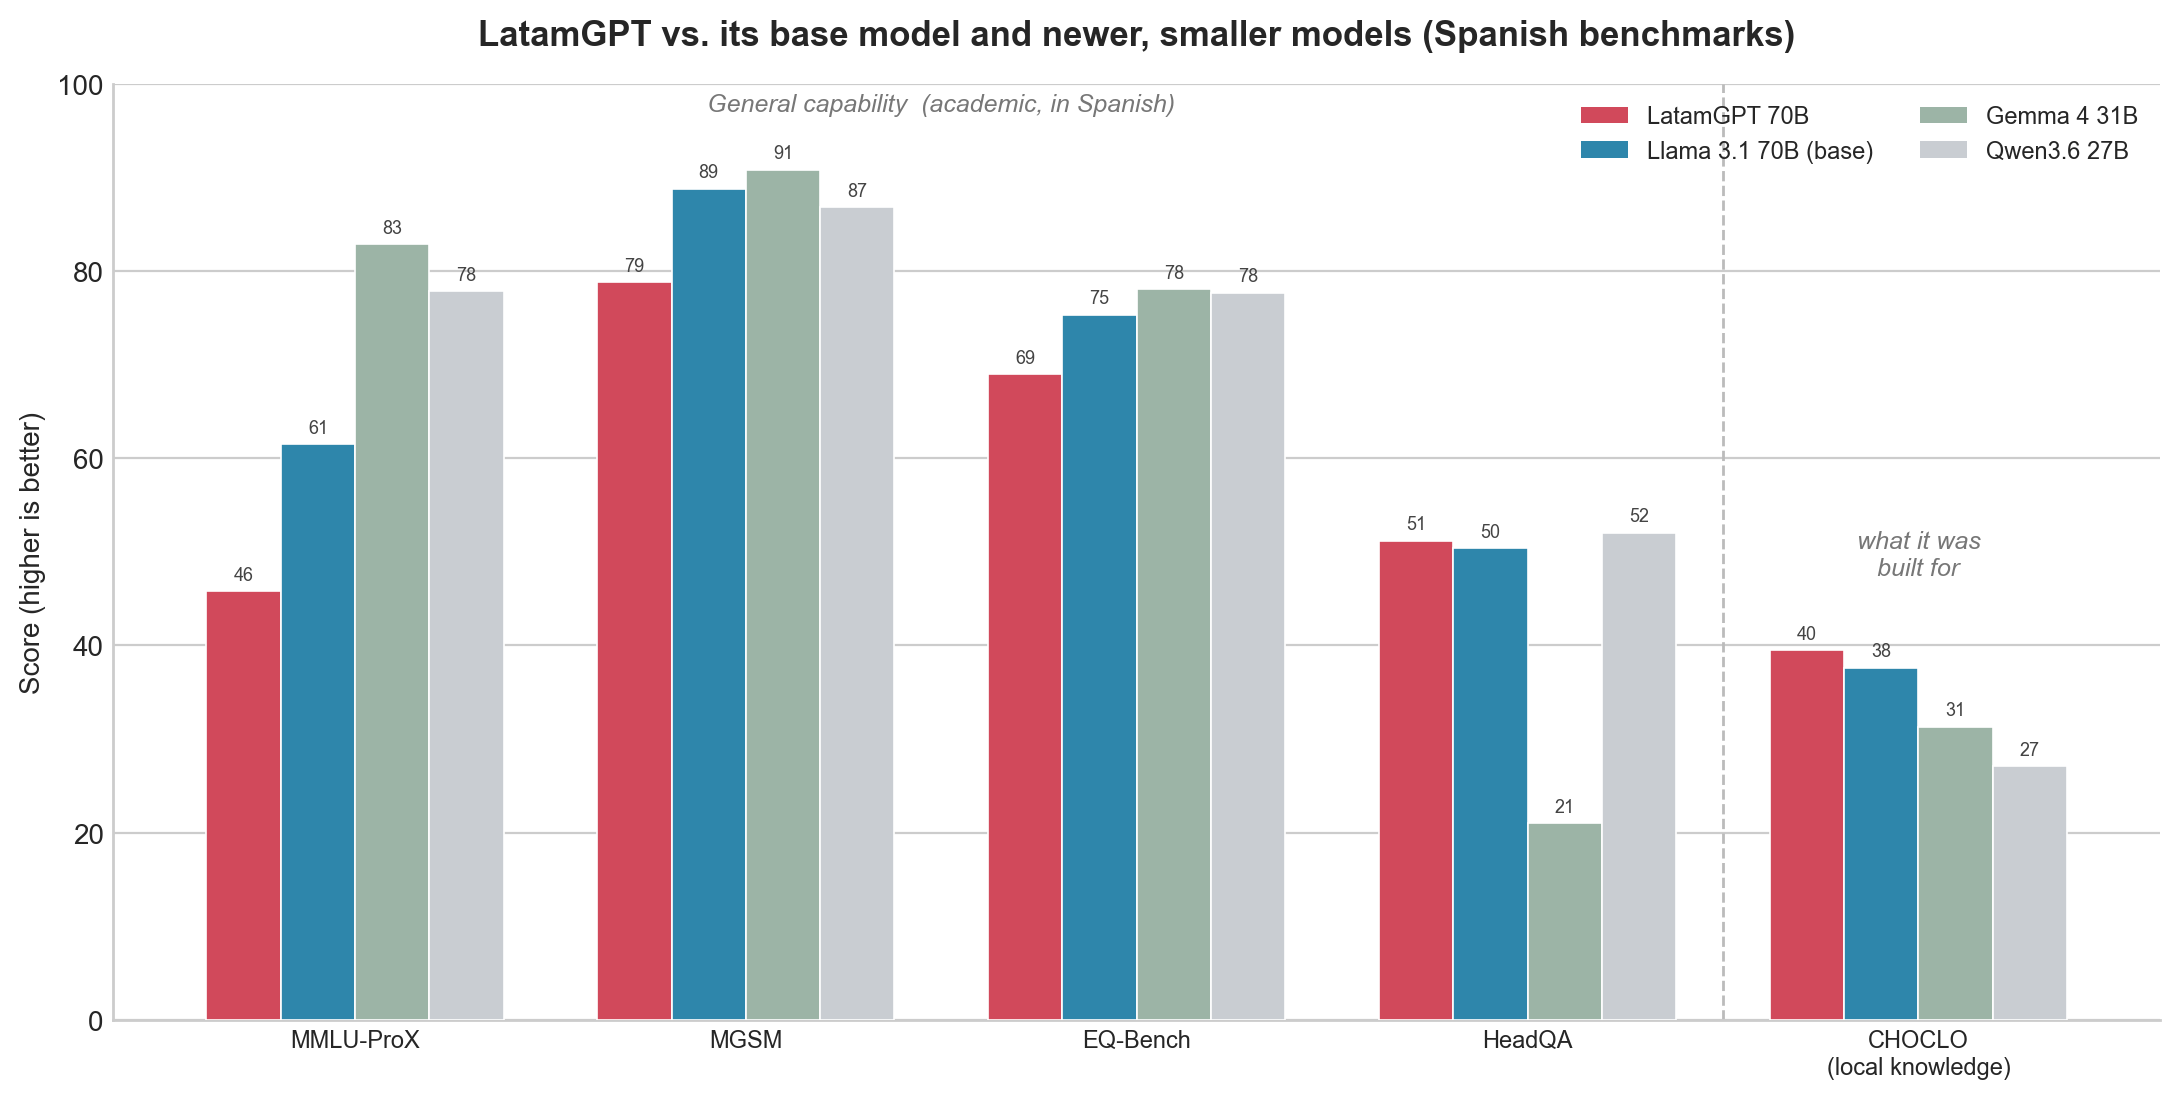
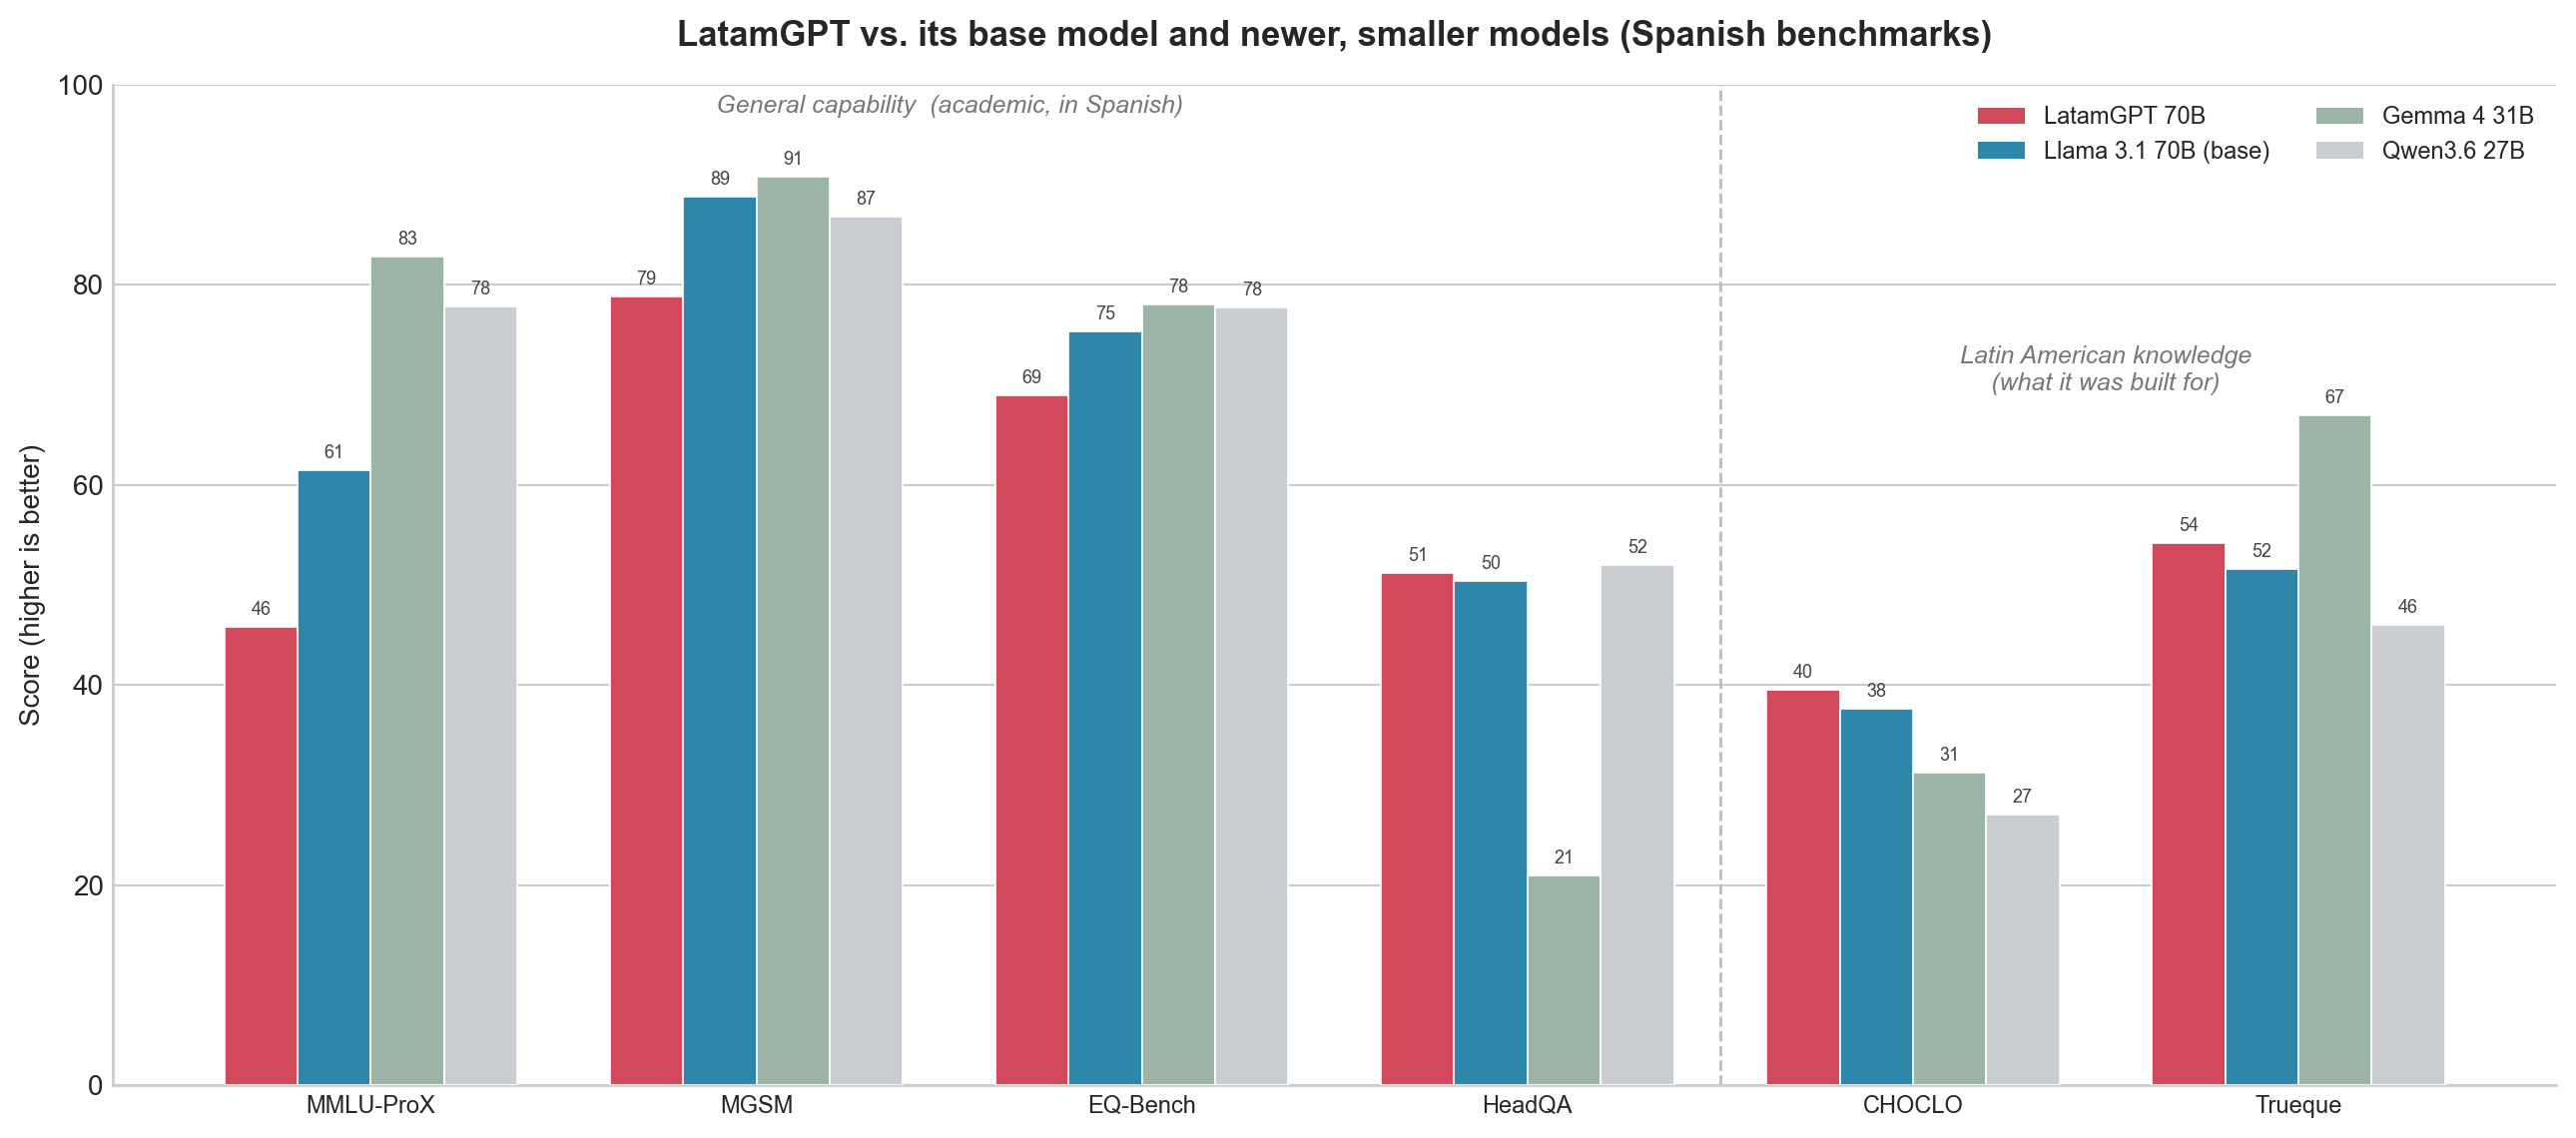
Add Trueque results and refine LatamGPT post
- Add Trueque benchmark (chart + overall comparison table), with honest
  framing: Gemma wins Trueque while LatamGPT tops CHOCLO
- Rename "local knowledge" -> "Latin American knowledge"; update title
- Add disclaimers: single run (except Gemma HeadQA x3), Spanish prompts,
  judge may not reproduce authors' methodology, Gemma/Qwen run без thinking
- Point CHOCLO/Trueque references to CENIA announcement + dataset repos

diff --git a/_posts/2026-06-08-blog-3-latamgpt-continued-pretraining.md b/_posts/2026-06-08-blog-3-latamgpt-continued-pretraining.md
@@ -1,5 +1,5 @@
 ---
-title: 'Local Knowledge at a Price: Reading LatamGPT Through Its Benchmarks'
+title: 'Latin American Knowledge at a Price: Reading LatamGPT Through Its Benchmarks'
 date: 2026-06-08
 permalink: /posts/2026/blog-latamgpt-continued-pretraining/
 tags:
@@ -32,7 +32,7 @@ The numbers show the tax plainly. On general academic benchmarks <em>in Spanish<
 <p align="center">
     <img src="/images/latamgpt-benchmarks.png" width="760">
 	<center>
-	<figcaption>On the academic benchmarks (left), LatamGPT (red) trails its own base, Llama 3.1 70B (blue), and the two newer, smaller models lead both—except on HeadQA, where it edges its base (and Gemma's score looks like an evaluation artifact). On CHOCLO (right), the benchmark it was built for, the picture flips.</figcaption>
+	<figcaption>On the academic benchmarks (left), LatamGPT (red) trails its own base, Llama 3.1 70B (blue), and the two newer, smaller models lead both—except on HeadQA, where it edges its base (and Gemma's score looks like an evaluation artifact). On the Latin American knowledge benchmarks (right), it beats its base on both CHOCLO and Trueque and tops CHOCLO outright—though Gemma still wins the smaller, human-reviewed Trueque.</figcaption>
 	</center>
 </p>
 
@@ -51,27 +51,44 @@ The exact numbers behind the left side of that chart:
 EM = exact match, Acc = accuracy; EQ-Bench uses its own 0–100 scale. Bold marks the best score per row. LatamGPT lands below its Llama 3.1 base on every row except HeadQA—and well behind the two newer, smaller models (Gemma's HeadQA score aside; see the note at the end).
 </p>
 
-## Where it pays off: local knowledge
+## Where it pays off: Latin American knowledge
 
 <p style='text-align: justify;'>
-Now the other side of the ledger. CHOCLO—<a href="https://www.linkedin.com/posts/andres-carvallo-b5836a33a_latam-gptchoclo-datasets-at-hugging-face-share-7449581534673633280-elg4/">another CENIA release from the same Latam-GPT effort</a>, openly available <a href="https://huggingface.co/latam-gpt">on Hugging Face</a>—is a 104,847-question benchmark of Latin American cultural knowledge (food, flora and fauna, geography, traditions, public figures) spanning the region's countries. CHOCLO ships a hybrid evaluation (lexical overlap, embedding similarity, and an LLM-as-judge); I report the LLM-as-judge part as a binary call—a single external judge decides, for each answer, whether it is semantically equivalent to the reference, and the score is simply the share judged equivalent. Because the same judge grades all four models, the numbers are directly comparable. Here, LatamGPT is the <strong>best model in the table</strong>: 39.5% of its answers are judged equivalent to the gold reference, edging out its base (37.6) and clearly ahead of the newer models (Gemma 4 31B at 31.3, Qwen3.6 27B at 27.1). And the lead is consistent across difficulty levels:
+Now the other side of the ledger. CHOCLO—<a href="https://www.linkedin.com/posts/te-invitamos-a-nuestro-pr%C3%B3ximo-webinar-donde-ugcPost-7450985197631791105-XLKo/">another CENIA release from the same Latam-GPT effort</a>, openly available <a href="https://huggingface.co/datasets/latam-gpt/CHOCLO">on Hugging Face</a>—is a 104,847-question benchmark of Latin American cultural knowledge (food, flora and fauna, geography, traditions, public figures) spanning the region's countries. CHOCLO ships a hybrid evaluation (lexical overlap, embedding similarity, and an LLM-as-judge); I report the LLM-as-judge part as a binary call—a single external judge decides, for each answer, whether it is semantically equivalent to the reference, and the score is simply the share judged equivalent. Because the same judge grades all four models, the numbers are directly comparable. Here, LatamGPT is the <strong>best model in the table</strong>: 39.5% of its answers are judged equivalent to the gold reference, edging out its base (37.6) and clearly ahead of the newer models (Gemma 4 31B at 31.3, Qwen3.6 27B at 27.1). And the lead is consistent across difficulty levels:
 </p>
 
 | CHOCLO — binary semantic equivalence (%) | LatamGPT 70B   | Llama 3.1 70B | Gemma 4 31B | Qwen3.6 27B |
-| ------------------------------ | -------------- | ------------- | ----------- | ----------- |
-| Overall                        | **39.5** | 37.6          | 31.3        | 27.1        |
-| Fácil (easy)                  | **59.8** | 57.1          | 48.4        | 45.1        |
-| Intermedia (intermediate)      | **33.9** | 32.3          | 24.3        | 20.7        |
-| Difícil (hard)                | **24.9** | 23.6          | 21.3        | 15.6        |
+| ----------------------------------------- | -------------- | ------------- | ----------- | ----------- |
+| Overall                                   | **39.5** | 37.6          | 31.3        | 27.1        |
+| Fácil (easy)                             | **59.8** | 57.1          | 48.4        | 45.1        |
+| Intermedia (intermediate)                 | **33.9** | 32.3          | 24.3        | 20.7        |
+| Difícil (hard)                           | **24.9** | 23.6          | 21.3        | 15.6        |
 
 <p style='text-align: justify;'>
-This is the result that justifies the effort. Local cultural knowledge does not fall out of scale or recency—Gemma and Qwen are newer and strong, and they still lose here, because the relevant facts about a Chilean dish or a Peruvian tradition were simply never in their training data. You cannot reason your way to knowledge you were never shown. The regional corpus put that knowledge in, and CHOCLO can see it. The honest summary of the two tables together: continued pre-training bought a real, measurable gain on exactly the thing it was built for—and paid for it with a broad regression everywhere else.
+This is the result that justifies the effort. Latin American cultural knowledge does not fall out of scale or recency—Gemma and Qwen are newer and strong, and they still lose here, because the relevant facts about a Chilean dish or a Peruvian tradition were simply never in their training data. You cannot reason your way to knowledge you were never shown. The regional corpus put that knowledge in, and CHOCLO can see it.
+</p>
+
+<p style='text-align: justify;'>
+But it does not win <em>every</em> cultural test. <a href="https://huggingface.co/datasets/latam-gpt/Trueque-Benchmark-beta-0.1">Trueque</a>—a smaller, human-reviewed collaborative Latin American QA benchmark (500 questions in this beta, scored the same way: a single external judge making a binary semantic-equivalence call)—tells a more mixed story. LatamGPT again beats its own base (54.2 vs. 51.6) and Qwen (46.0), so the edge the regional corpus gives it over Llama 3.1 holds. But here Gemma 4 31B wins outright, and not by a little: 67.0 to LatamGPT's 54.2. On CHOCLO's long-tail, machine-generated facts the regional data is decisive; on Trueque's broader, human-reviewed questions, a stronger and newer general model pulls ahead despite never being trained on the region.
+</p>
+
+<p style='text-align: justify;'>
+Side by side, the two Latin American benchmarks (overall, same single-judge scoring):
+</p>
+
+| Overall — binary semantic equivalence (%) | LatamGPT 70B   | Llama 3.1 70B | Gemma 4 31B    | Qwen3.6 27B |
+| ------------------------------------------ | -------------- | ------------- | -------------- | ----------- |
+| CHOCLO (n = 104,847)                       | **39.5** | 37.6          | 31.3           | 27.1        |
+| Trueque (n = 500, beta)                    | 54.2           | 51.6          | **67.0** | 46.0        |
+
+<p style='text-align: justify;'>
+The honest summary of all of it: continued pre-training bought a consistent edge over the base model on Latin American knowledge—and an outright win on CHOCLO—but not enough to beat a much stronger, newer model on every cultural benchmark, and it paid for that edge with a broad regression on general ability.
 </p>
 
 ## The uncomfortable comparison
 
 <p style='text-align: justify;'>
-There is a harder fact lurking in the same chart. Gemma 4 31B and Qwen3.6 27B are <em>less than half the size</em> of LatamGPT and roughly two years newer, and they dominate the core academic benchmarks—often by twenty points or more. This is the structural problem with adapting a base model: you inherit its ceiling. CPT on a 2024-era Llama cannot out-run pre-training recipes from 2026, no matter how good your regional data is. And the target keeps moving: in 2026 the open-weight frontier ships a major model every few weeks (<a href="https://huggingface.co/blog/daya-shankar/open-source-llms">one tally counted five frontier-class open-weight LLMs in a single month</a>). By the time you finish adapting last year's base, this year's smaller model has lapped you on everything except the local knowledge you added by hand.
+There is a harder fact lurking in the same chart. Gemma 4 31B and Qwen3.6 27B are <em>less than half the size</em> of LatamGPT and roughly two years newer, and they dominate the core academic benchmarks—often by twenty points or more. This is the structural problem with adapting a base model: you inherit its ceiling. CPT on a 2024-era Llama cannot out-run pre-training recipes from 2026, no matter how good your regional data is. And the target keeps moving: in 2026 the open-weight frontier ships a major model every few weeks (<a href="https://huggingface.co/blog/daya-shankar/open-source-llms">one tally counted five frontier-class open-weight LLMs in a single month</a>). By the time you finish adapting last year's base, this year's smaller model has lapped you on the academic benchmarks—and, as Trueque shows, can even take some of the cultural ones—leaving the long-tail Latin American knowledge of CHOCLO as the clearest thing you actually gained.
 </p>
 
 ## So what is the real contribution?
@@ -81,7 +98,7 @@ This is where I want to be a friendly critic, because I genuinely admire the amb
 </p>
 
 <p style='text-align: justify;'>
-<strong>Does Latin America need to <em>train</em> a model, or to <em>curate</em> data?</strong> A regional foundation model is a multi-million-dollar bet that frontier labs match in a day of compute. High-quality, openly licensed cultural data is cheaper, durable, and—crucially—usable by <em>any</em> model that matters. <strong>What is the data actually contributing?</strong> CHOCLO already shows it: the local knowledge it encodes is the one place LatamGPT wins. That signal is more valuable as a portable resource than as something frozen into one set of weights. <strong>And is the real leverage in deployment rather than pre-training?</strong> The same curated knowledge can be injected through retrieval-augmented generation, in-context examples, or as a callable "cultural competence" skill for agentic systems—often beating brute-force pre-training on cost and freshness, and improving every model instead of just one.
+<strong>Does Latin America need to <em>train</em> a model, or to <em>curate</em> data?</strong> A regional foundation model is a multi-million-dollar bet that frontier labs match in a day of compute. High-quality, openly licensed cultural data is cheaper, durable, and—crucially—usable by <em>any</em> model that matters. <strong>What is the data actually contributing?</strong> CHOCLO already shows it: the Latin American knowledge it encodes is where LatamGPT's edge actually shows. That signal is more valuable as a portable resource than as something frozen into one set of weights. <strong>And is the real leverage in deployment rather than pre-training?</strong> The same curated knowledge can be injected through retrieval-augmented generation, in-context examples, or as a callable "cultural competence" skill for agentic systems—often beating brute-force pre-training on cost and freshness, and improving every model instead of just one.
 </p>
 
 <p style='text-align: justify;'>
@@ -91,14 +108,16 @@ None of this diminishes what LatamGPT accomplished: a large, multi-country colla
 ## A note on the numbers
 
 <p style='text-align: justify;'>
-All numbers come from two open evaluation frameworks: the Spanish academic benchmarks were run with EleutherAI's <a href="https://github.com/EleutherAI/lm-evaluation-harness/">lm-evaluation-harness</a>, and CHOCLO's LLM-as-judge scoring with <a href="https://github.com/confident-ai/deepeval">DeepEval</a>. I use MMLU-ProX (es) as the MMLU number because it is fully Spanish. HeadQA is included for completeness, but Gemma 4 31B's score there (≈21, below chance) is almost certainly an evaluation artifact rather than a real capability gap. CHOCLO is scored by one external judge (gpt-5.4-mini) applied identically to all four models, so the four columns are directly comparable.
+Some caveats on methodology. Every benchmark here is in Spanish, and the prompts used both to generate the models' answers and to judge them were written in Spanish too. The academic benchmarks were run with EleutherAI's <a href="https://github.com/EleutherAI/lm-evaluation-harness/">lm-evaluation-harness</a>; CHOCLO and Trueque were scored with <a href="https://github.com/confident-ai/deepeval">DeepEval</a>, using a single external judge (gpt-5.4-mini) applied identically to every model, so those columns are comparable across models. My LLM-as-judge setup may not exactly reproduce what the dataset authors intended—the repositories don't document the judging methodology in full detail—so the absolute CHOCLO and Trueque scores are best read as internally consistent rather than official. I use MMLU-ProX (es) as the MMLU number because it is fully Spanish. Gemma 4 31B and Qwen3.6 27B were evaluated with reasoning ("thinking") disabled—standard inference. Finally, every result here comes from a single run; the one exception is Gemma 4 31B on HeadQA, which I ran three times and which returned ≈21 (below chance) every time—almost certainly an evaluation artifact rather than a real capability gap.
 </p>
 
 ## References
 
 - LatamGPT model card: [latam-gpt/Llama-3.1-70B-LatamGPT-SFT-1.0](https://huggingface.co/latam-gpt/Llama-3.1-70B-LatamGPT-SFT-1.0) and the [Latam-GPT organization](https://huggingface.co/latam-gpt) on Hugging Face.
+- CHOCLO dataset: [latam-gpt/CHOCLO](https://huggingface.co/datasets/latam-gpt/CHOCLO).
+- Trueque dataset: [latam-gpt/Trueque-Benchmark-beta-0.1](https://huggingface.co/datasets/latam-gpt/Trueque-Benchmark-beta-0.1).
 - Omar U. Flórez (2026). [*LatamGPT open-weights release announcement (June 1, 2026)*](https://www.linkedin.com/posts/omar-u-florez_latamgpt-share-7467314002256257025-L45F/).
-- Andrés Carvallo (2026). [*Latam-GPT / CHOCLO datasets on Hugging Face*](https://www.linkedin.com/posts/andres-carvallo-b5836a33a_latam-gptchoclo-datasets-at-hugging-face-share-7449581534673633280-elg4/).
+- CENIA (2026). [*CHOCLO and Trueque benchmarks — release announcement*](https://www.linkedin.com/posts/te-invitamos-a-nuestro-pr%C3%B3ximo-webinar-donde-ugcPost-7450985197631791105-XLKo/) (LinkedIn).
 - France24 (2026). [*Latam-GPT: a Latin American AI to combat US-centric bias*](https://www.france24.com/en/live-news/20260210-latam-gpt-a-latin-american-ai-to-combat-us-centric-bias).
 - AI Business (2026). [*Meet Latam-GPT, the New Open Source AI Model for Latin America*](https://aibusiness.com/generative-ai/the-new-open-source-ai-model-for-latin-america) (source for the ~230 billion words / 300 billion tokens figure, attributed to CENIA).
 - Brookings (2026). [*Latam-GPT and the search for AI sovereignty*](https://www.brookings.edu/articles/latam-gpt-and-the-search-for-ai-sovereignty/).